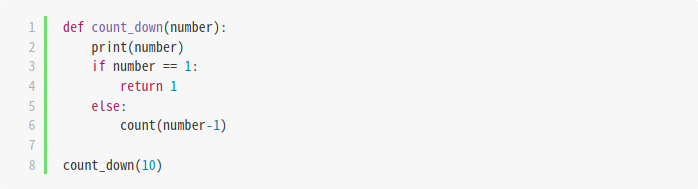
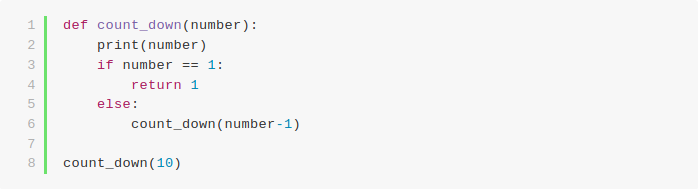
fix: unit 14 exercise 1

diff --git a/student/templates/student/lesson/C14.html b/student/templates/student/lesson/C14.html
@@ -23,7 +23,7 @@ n/2,  & \text{若 $n$ 為偶數} \\
     <div id="memo{{forloop.counter}}" class="card-body" data-contentid="1" style="display:none">
         <img src="/static/lesson/{{lesson}}/{{unit}}_{{forloop.counter}}.png">
         {% if forloop.counter == 1 %}
-        <iframe width="800" height="500" frameborder="0" src="http://pythontutor.com/iframe-embed.html#code=def%20count_down%28number%29%3A%0A%20%20%20%20print%28number%29%0A%20%20%20%20if%20number%20%3D%3D%201%3A%0A%20%20%20%20%20%20%20%20return%201%0A%20%20%20%20else%3A%0A%20%20%20%20%20%20%20%20count%28number-1%29%0A%0Acount_down%2810%29&codeDivHeight=400&codeDivWidth=350&cumulative=false&curInstr=0&heapPrimitives=nevernest&origin=opt-frontend.js&py=3&rawInputLstJSON=%5B%5D&textReferences=false"> </iframe>
+        <iframe width="800" height="500" frameborder="0" src="http://pythontutor.com/iframe-embed.html#code=def%20count_down%28number%29%3A%0A%20%20%20%20print%28number%29%0A%20%20%20%20if%20number%20%3D%3D%201%3A%0A%20%20%20%20%20%20%20%20return%201%0A%20%20%20%20else%3A%0A%20%20%20%20%20%20%20%20count_down%28number-1%29%0A%0Acount_down%2810%29&codeDivHeight=400&codeDivWidth=350&cumulative=false&curInstr=0&heapPrimitives=nevernest&origin=opt-frontend.js&py=3&rawInputLstJSON=%5B%5D&textReferences=false"> </iframe>
         <p><img src="/static/lesson/1/recursion1.png" style="max-width: 100%"></p>
         <p><img src="/static/lesson/1/recursion2.png" style="max-width: 100%"></p>
         {% elif forloop.counter == 2 %}
